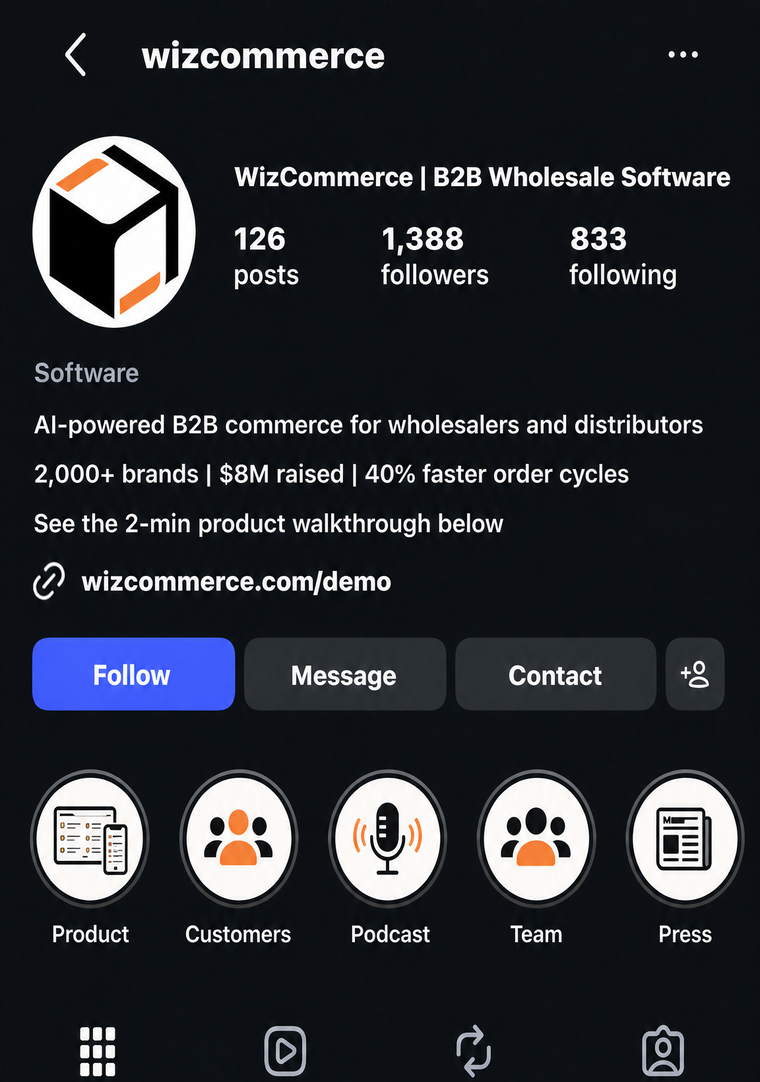
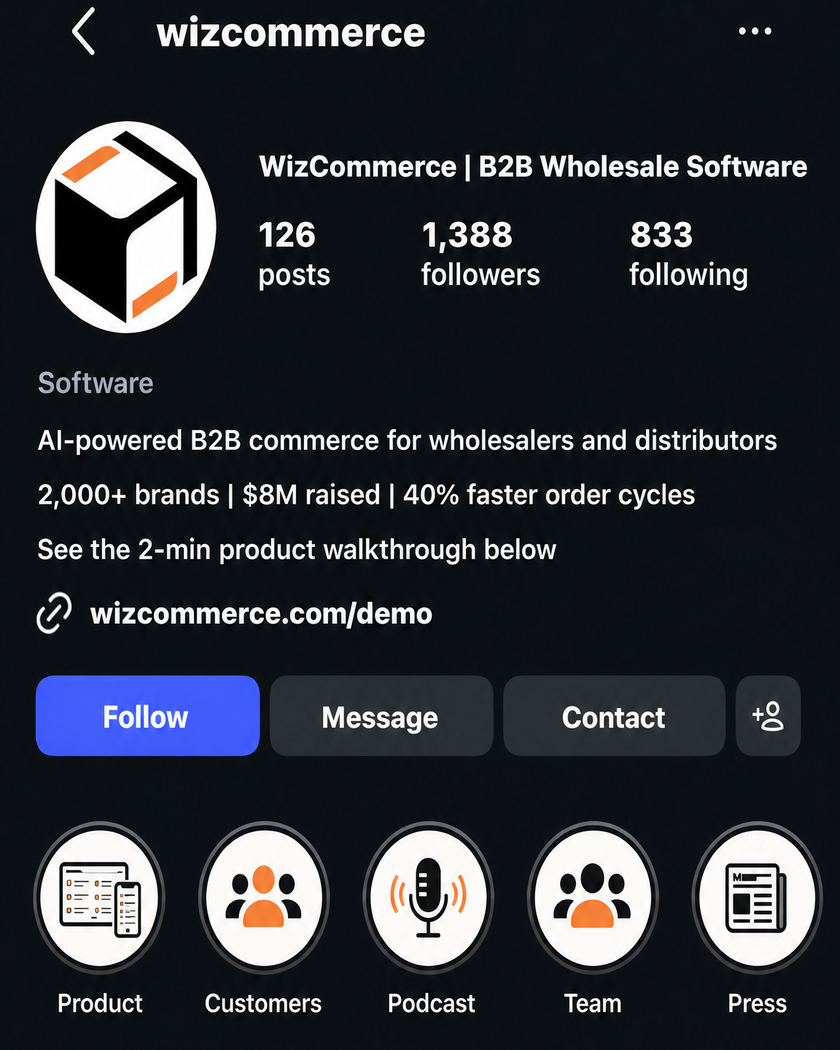
Add mockups, copy-paste text and proof slides
Every recommendation now shows the proposed state rather than describing
it: an edit-profile screen for the field rewrite, a highlights row, and a
three-pin grid. The bio block is formatted to paste straight in.

Before and after on slide 2 are recropped to the same aspect so both fill
their frames; the gap on the left is the missing highlights row.

Closes with proof: Right Now With Rohan linked to the live account, and
the brand roster linked to the credentials deck.

diff --git a/index.html b/index.html
@@ -179,7 +179,7 @@ radial-gradient(ellipse 45% 35% at 85% 0%,rgba(71,71,71,.14),transparent 60%)}
 /* stat tiles */
 .stats{display:grid;grid-template-columns:repeat(4,1fr);gap:14px;margin-top:26px}
 .stat{border:1px solid var(--line);border-radius:14px;padding:20px 18px;background:#fff;position:relative}
-.stat::before{content:'';position:absolute;top:0;left:18px;width:30px;height:3px;background:var(--line);border-radius:0 0 3px 3px}
+.stat::before{content:'';position:absolute;top:1px;left:18px;width:30px;height:3px;background:var(--line);border-radius:0 0 3px 3px}
 .stat.hot::before{background:var(--red)}
 .stat .sn{font-size:34px;font-weight:800;letter-spacing:-.03em;line-height:1}
 .stat .sn.red{color:var(--red)}.stat .sn.soft{color:#b9b6b2}
@@ -230,6 +230,19 @@ radial-gradient(ellipse 45% 35% at 85% 0%,rgba(71,71,71,.14),transparent 60%)}
 .mxo.now{border-color:var(--ink);background:var(--surface)}
 .mxarrow{position:absolute;left:-28px;top:50%;transform:translateY(-50%);color:var(--red);font-size:22px;font-weight:700}
 
+/* copy-paste block */
+.copy{background:var(--surface);border:1px solid var(--line);border-radius:12px;padding:16px 18px;margin-top:12px}
+.copy .ch{font-size:9.5px;font-weight:700;letter-spacing:.18em;text-transform:uppercase;color:var(--red);margin-bottom:9px}
+.copy code{font-family:ui-monospace,SFMono-Regular,Menlo,monospace;font-size:12.5px;line-height:1.85;color:var(--ink);display:block;white-space:pre-wrap;word-break:break-word}
+.copy .cl{color:var(--soft);font-size:11px;font-weight:600;letter-spacing:.06em;text-transform:uppercase;display:block;margin-top:11px;margin-bottom:1px}
+.copy .cl:first-child{margin-top:0}
+
+/* brand grid */
+.brands{display:grid;grid-template-columns:repeat(6,1fr);gap:8px;margin-top:20px}
+.brand{border:1px solid var(--line);border-radius:9px;padding:9px 7px;text-align:center;font-size:11px;font-weight:600;letter-spacing:-.01em;line-height:1.25;color:var(--ink);display:flex;align-items:center;justify-content:center;min-height:44px}
+.brand.more{background:var(--red);border-color:var(--red);color:#fff}
+.reslink{display:inline-block;margin-top:4px;font-size:13px;font-weight:600;color:var(--red);text-decoration:none;border-bottom:2px solid var(--red);padding-bottom:2px}
+
 /* placeholder for images Jayesh is still adding */
 .todo{border:1.5px dashed var(--red);border-radius:12px;background:#fff8f6;display:flex;align-items:center;justify-content:center;text-align:center;padding:16px}
 .todo span{font-size:11px;font-weight:600;color:var(--red);line-height:1.5;letter-spacing:.01em}
@@ -257,7 +270,7 @@ radial-gradient(ellipse 45% 35% at 85% 0%,rgba(71,71,71,.14),transparent 60%)}
 </section>
 
 <!-- 01 THE PROFILE TODAY -->
-<section class="slide"><img class="slogo" src="assets/lockup.png" alt=""><div class="pageno">01 / 05</div>
+<section class="slide"><img class="slogo" src="assets/lockup.png" alt=""><div class="pageno">01 / 07</div>
   <div class="inner">
     <div class="kicker red">01 &middot; The profile today</div>
     <h2 class="tight">126 posts in, <em>the profile still doesn&rsquo;t sell.</em></h2>
@@ -281,7 +294,7 @@ radial-gradient(ellipse 45% 35% at 85% 0%,rgba(71,71,71,.14),transparent 60%)}
 </section>
 
 <!-- 02 BEFORE / AFTER -->
-<section class="slide"><img class="slogo" src="assets/lockup.png" alt=""><div class="pageno">02 / 05</div>
+<section class="slide"><img class="slogo" src="assets/lockup.png" alt=""><div class="pageno">02 / 07</div>
   <div class="inner">
     <div class="kicker red">02 &middot; The same account, rewritten</div>
     <h2 class="tight">Nothing reshot. <em>Only the words changed.</em></h2>
@@ -300,58 +313,111 @@ radial-gradient(ellipse 45% 35% at 85% 0%,rgba(71,71,71,.14),transparent 60%)}
 </section>
 
 <!-- 03 HANDLE, NAME, BIO -->
-<section class="slide"><img class="slogo" src="assets/lockup.png" alt=""><div class="pageno">03 / 05</div>
-  <div class="inner vc">
+<section class="slide"><img class="slogo" src="assets/lockup.png" alt=""><div class="pageno">03 / 07</div>
+  <div class="inner">
     <div class="kicker red">03 &middot; Handle, name and bio</div>
-    <h2 class="tight">What to actually type <em>into each field</em>.</h2>
-    <div class="label" style="margin-top:20px">Handle</div>
-    <div class="chips" style="margin-top:2px">
-      <span class="chip big">@wizcommerce</span>
-      <span class="chip">fallback: @wizcommerceAI</span>
+    <h2 class="tight">Ready to <em>copy and paste</em>.</h2>
+    <div class="split wide" style="margin-top:14px">
+      <div>
+        <div class="shot" style="height:404px"><img src="assets/mock-fields.png" alt="Proposed edit profile screen" style="object-fit:contain;background:#000"></div>
+        <div class="cap">Mockup &middot; the Edit Profile screen, filled in</div>
+      </div>
+      <div>
+        <div class="copy">
+          <div class="ch">Paste this in now</div>
+          <code><span class="cl">Username</span>wizcommerce
+<span class="cl">Name</span>WizCommerce | B2B Wholesale Software
+<span class="cl">Bio</span>AI-powered B2B commerce for wholesalers and distributors
+2,000+ brands | $8M raised | 40% faster order cycles
+See the 2-min product walkthrough below
+<span class="cl">Link</span>wizcommerce.com/demo</code>
+        </div>
+        <ul class="stack" style="margin-top:12px">
+          <li><b>@wizcommerce</b> if free, else <b>@wizcommerceAI</b>.</li>
+          <li>Name field is what Instagram search reads. Two other options: <b>Wholesale Order Management</b>, <b>B2B Commerce for Distributors</b>.</li>
+          <li><b>Confirm the two proof numbers</b> before pasting. Only the $8M is public today.</li>
+        </ul>
+      </div>
     </div>
-    <div class="label">Name field, written for search</div>
-    <div class="chips dim" style="margin-top:2px">
-      <span class="chip">WizCommerce | B2B Wholesale Software</span>
-      <span class="chip">WizCommerce | Wholesale Order Management</span>
-      <span class="chip">WizCommerce | B2B Commerce for Distributors</span>
-    </div>
-    <div class="label">Bio, three lines that each do one job</div>
-    <ul class="stack" style="margin-top:0">
-      <li><b>What you are.</b> AI-powered B2B commerce for wholesalers and distributors.</li>
-      <li><b>Proof.</b> 2,000+ brands &middot; $8M raised &middot; 40% faster order cycles. Numbers to confirm before this goes live.</li>
-      <li><b>One instruction.</b> &ldquo;See the 2-min product walkthrough below&rdquo;, pointing at a single link.</li>
-    </ul>
   </div>
 </section>
 
 <!-- 04 HIGHLIGHTS -->
-<section class="slide"><img class="slogo" src="assets/lockup.png" alt=""><div class="pageno">04 / 05</div>
+<section class="slide"><img class="slogo" src="assets/lockup.png" alt=""><div class="pageno">04 / 07</div>
   <div class="inner vc">
     <div class="kicker red">04 &middot; Highlights</div>
     <h2 class="tight">An empty row <em>where the buying happens</em>.</h2>
-    <p class="lead">Highlights are the only part of a profile a buyer can browse on their own terms. There are none. Five to build, in this order.</p>
-    <div class="tilegrid" style="margin-top:34px">
-      <div class="tile"><span class="tl red">01</span><span>Product<br><span style="font-weight:400;font-size:12px;color:var(--grey)">What it actually does, screen by screen.</span></span></div>
-      <div class="tile"><span class="tl blue">02</span><span>Customers<br><span style="font-weight:400;font-size:12px;color:var(--grey)">Named wholesalers, results, quotes.</span></span></div>
-      <div class="tile"><span class="tl red">03</span><span>Podcast<br><span style="font-weight:400;font-size:12px;color:var(--grey)">The clip library in one place, not scattered through 126 posts.</span></span></div>
-      <div class="tile"><span class="tl blue">04</span><span>Team<br><span style="font-weight:400;font-size:12px;color:var(--grey)">Div and the people behind it. B2B buys from people.</span></span></div>
-      <div class="tile"><span class="tl red">05</span><span>Press<br><span style="font-weight:400;font-size:12px;color:var(--grey)">The $8M raise and any coverage since.</span></span></div>
-    </div>
+    <p class="lead">Highlights are the only part of a profile a buyer can browse on their own terms. There are none today. Five to build, in this order.</p>
+    <div class="shot" style="height:250px;margin-top:22px"><img src="assets/mock-highlights.png" alt="Proposed highlights row" style="object-fit:contain;background:#000"></div>
+    <div class="cap">Mockup &middot; how the row would read on the live profile</div>
+    <div class="bignote" style="margin-top:18px">Product and Customers do the selling. <span>Podcast turns 126 scattered posts into a library.</span></div>
   </div>
 </section>
 
 <!-- 05 PINS -->
-<section class="slide"><img class="slogo" src="assets/lockup.png" alt=""><div class="pageno">05 / 05</div>
+<section class="slide"><img class="slogo" src="assets/lockup.png" alt=""><div class="pageno">05 / 07</div>
   <div class="inner vc">
     <div class="kicker red">05 &middot; Pinned posts</div>
     <h2 class="tight">Three slots. <em>Two used, one wasted.</em></h2>
-    <p class="lead">The pins are the first three tiles every visitor sees. One of the three is doing nothing.</p>
-    <div class="pins" style="margin-top:26px">
-      <div class="pin"><div class="pnum">PIN 1</div><h5>Founder story</h5><p>Div Makkar card. Already pinned. Keep it where it is.</p></div>
-      <div class="pin" style="border-color:var(--red);border-width:2px"><div class="pnum">PIN 2 &middot; EMPTY</div><h5>How it works</h5><p>The product walkthrough. This slot is empty today, and it is the one a buyer needs most.</p></div>
-      <div class="pin"><div class="pnum">PIN 3</div><h5>The announcement</h5><p>$8M raise. Already pinned. Move it to third.</p></div>
+    <p class="lead">The pins are the first three tiles every visitor sees. The middle one is empty today, and it is the one a buyer needs most.</p>
+    <div class="shot" style="height:248px;margin-top:20px"><img src="assets/mock-pins.png" alt="Proposed three pinned posts" style="object-fit:contain;background:#000"></div>
+    <div class="cap">Mockup &middot; founder story, product walkthrough, the raise. Centre tile is the one to make.</div>
+    <div class="bignote" style="margin-top:18px">A buyer can see who you are and that you raised. <span>Not what the product does.</span></div>
+  </div>
+</section>
+
+<!-- 06 PROOF: RNR -->
+<section class="slide"><img class="slogo" src="assets/lockup.png" alt=""><div class="pageno">06 / 07</div>
+  <div class="inner vc">
+    <div class="kicker red">06 &middot; We have run this format</div>
+    <h2 class="tight">A podcast taken from zero to <em>466M views</em>.</h2>
+    <p class="lead">Right Now With Rohan is a Hindi interview podcast. We launched the social presence from scratch and ran it clip-first, the same raw material you already have.</p>
+    <div class="stats" style="margin-top:26px">
+      <div class="stat hot"><div class="sn red">466M</div><div class="sp">Instagram views</div><div class="ss">Organic, no ad spend</div></div>
+      <div class="stat"><div class="sn">113K</div><div class="sp">Followers</div><div class="ss">From zero</div></div>
+      <div class="stat"><div class="sn">262K</div><div class="sp">YouTube subs</div><div class="ss">146M lifetime views</div></div>
+      <div class="stat"><div class="sn">12</div><div class="sp">Months</div><div class="ss">Jul 2024 &rarr; Jul 2025</div></div>
     </div>
-    <div class="bignote" style="margin-top:28px">A buyer can see who you are and that you raised. <span>Not what the product does.</span></div>
+    <div style="margin-top:24px">
+      <a class="reslink" href="https://www.instagram.com/rightnowwithrohan/" target="_blank" rel="noopener">See the account &rarr; instagram.com/rightnowwithrohan</a>
+    </div>
+  </div>
+</section>
+
+<!-- 07 BRANDS -->
+<section class="slide"><img class="slogo" src="assets/lockup.png" alt=""><div class="pageno">07 / 07</div>
+  <div class="inner vc">
+    <div class="kicker red">07 &middot; Who we have built for</div>
+    <h2 class="tight">25+ brands. <em>1 billion+ views.</em></h2>
+    <div class="stats" style="margin-top:20px">
+      <div class="stat hot"><div class="sn red">1B+</div><div class="sp">Views generated</div><div class="ss">Across creator, podcast and brand accounts</div></div>
+      <div class="stat"><div class="sn">25+</div><div class="sp">Brands</div><div class="ss">Eleven sectors</div></div>
+      <div class="stat"><div class="sn">2,500+</div><div class="sp">Paid registrations</div><div class="ss">For a single flagship summit</div></div>
+      <div class="stat"><div class="sn">1,800+</div><div class="sp">Creatives delivered</div><div class="ss">Reels, campaigns, assets</div></div>
+    </div>
+    <div class="brands">
+      <div class="brand">Sahaj Talwar</div>
+      <div class="brand">Right Now With Rohan</div>
+      <div class="brand">Food Entrepreneurs Summit</div>
+      <div class="brand">ReliefVeda</div>
+      <div class="brand">Mauji Time Cafe</div>
+      <div class="brand">Spolto</div>
+      <div class="brand">Janma Care</div>
+      <div class="brand">Nutriosa</div>
+      <div class="brand">Atharva Oceana</div>
+      <div class="brand">Revyur</div>
+      <div class="brand">Third Spaces Inc.</div>
+      <div class="brand">SBOOCH</div>
+      <div class="brand">Renv8 Spaces</div>
+      <div class="brand">Safe Smile Implants</div>
+      <div class="brand">La Selva Pench</div>
+      <div class="brand">All That&rsquo;s Coffee</div>
+      <div class="brand">Expert Panel</div>
+      <div class="brand more">+ more</div>
+    </div>
+    <div style="margin-top:18px">
+      <a class="reslink" href="https://viewsintodollars.github.io/vid-bbm-credentials/" target="_blank" rel="noopener">Full credentials deck &rarr; case studies and results</a>
+    </div>
   </div>
 </section>
 
